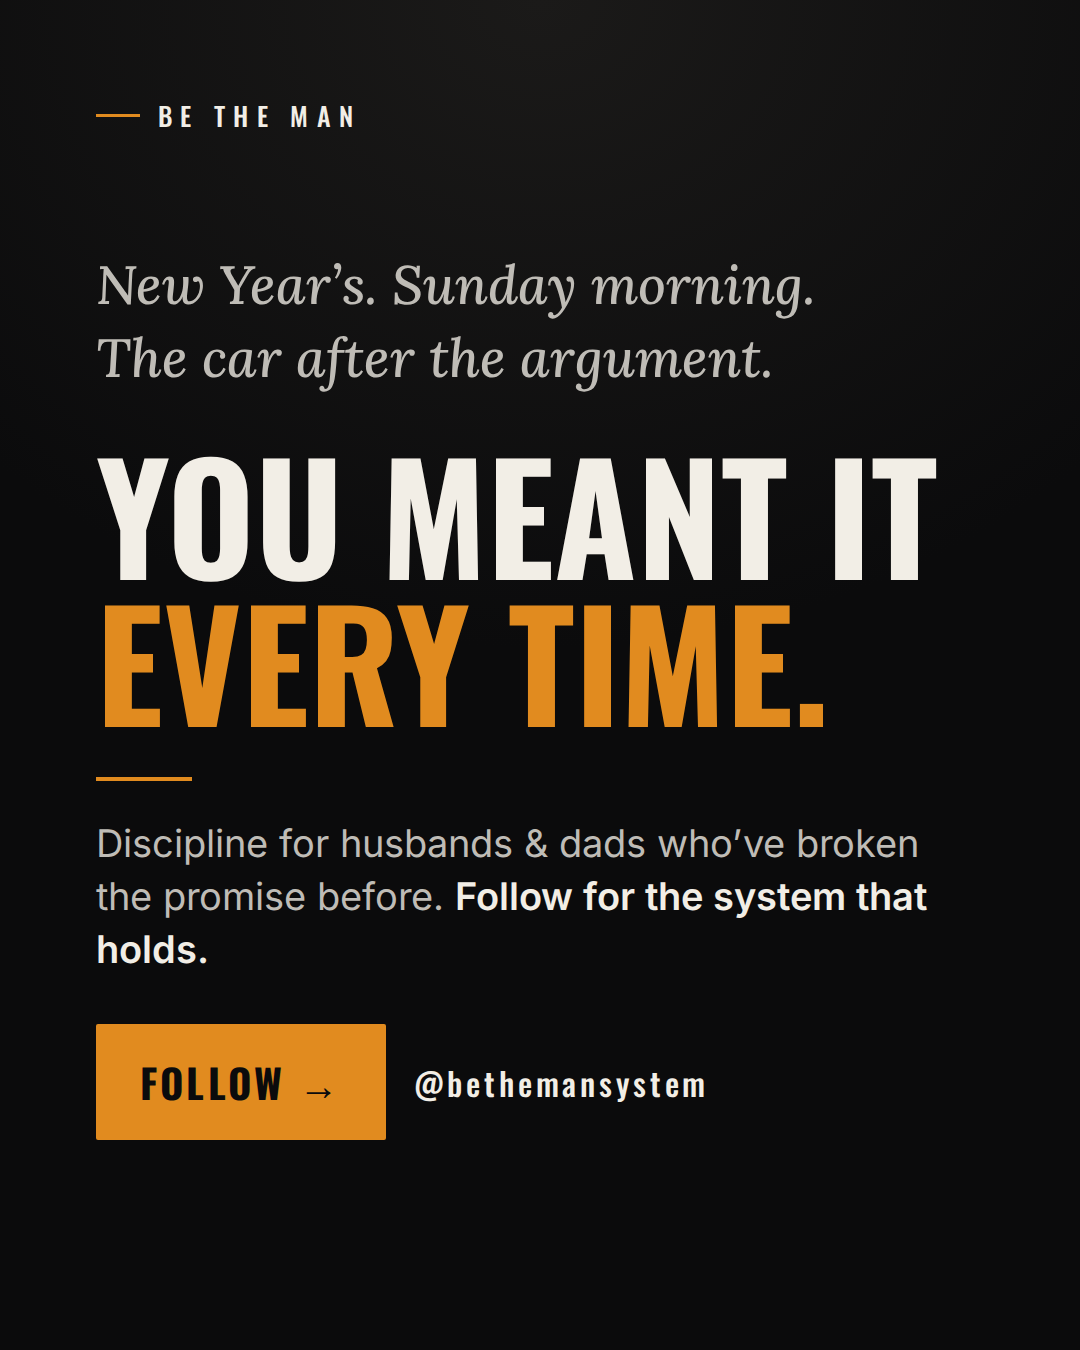
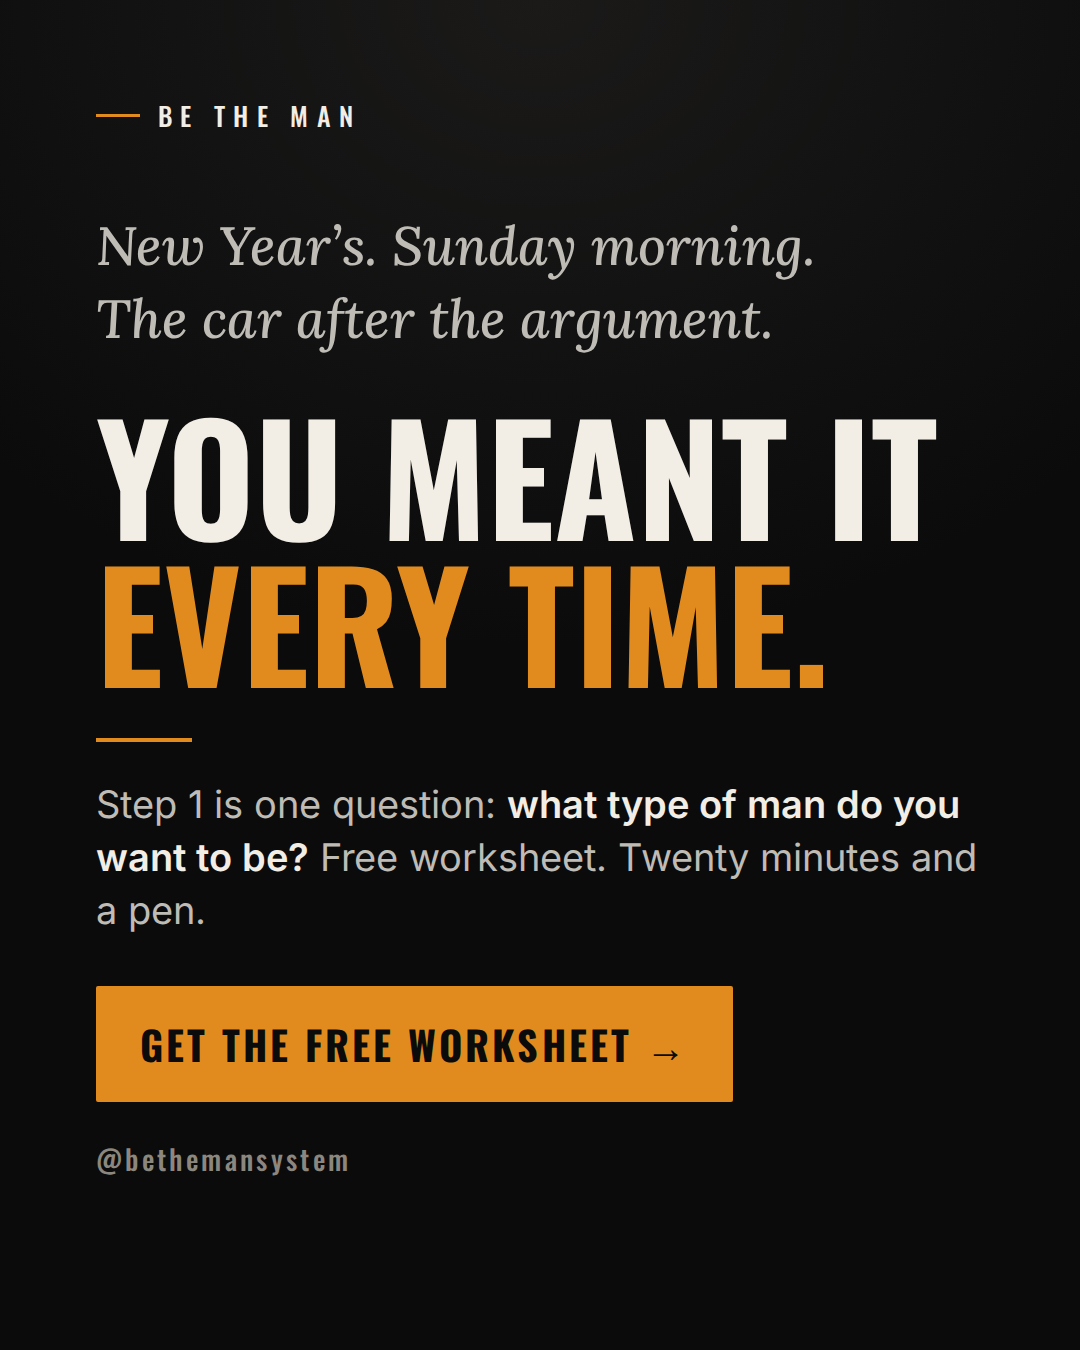
Point ad at the free worksheet instead of Follow
Claude-Session: https://claude.ai/code/session_01XNxN6WWUbLuBKCTBfMbdaS

diff --git a/instagram/AD-GUIDE.md b/instagram/AD-GUIDE.md
@@ -1,6 +1,6 @@
-# $10 ad: Instagram + Facebook exposure for @bethemansystem
+# $10 ad: Instagram + Facebook → free worksheet
 
-**Goal:** get new men to see and follow the page. One ad, one audience, $10 total.
+**Goal:** send new men to the free Step 1 worksheet at `go.bethemansystem.com/framework`. One ad, one audience, $10 total.
 
 ## Creative (in `posts/out/`)
 | File | Placement |
@@ -19,31 +19,32 @@ New Year's. Sunday morning. The car after the argument.
 
 You meant it every time. What you never had was a system that holds when motivation doesn't.
 
-Be The Man is discipline for husbands and dads: one step at a time, starting with a free worksheet.
+Step 1 is one question: what type of man do you want to be? It takes twenty minutes and a pen, and it ends in one sentence you can check every week against.
 
-Follow @bethemansystem.
+Get the free worksheet 👇
 ```
-**Headline:** `Discipline for husbands & dads`
-**Call to action button:** Follow (or Learn more if Follow is not offered)
+**Headline:** `Free worksheet: Step 1`
+**Website URL:** `https://go.bethemansystem.com/framework`
+**Call to action button:** Download (or Learn more)
 
 ## Setup (Meta Ads Manager or the Instagram app)
-Easiest: open the Instagram app → your profile → **Promote** → pick a post (or upload the feed image as a post first, then boost it).
-Better control: **ads.facebook.com → Create → Awareness or Traffic**.
+Use **ads.facebook.com → Create** (the Instagram app's Promote button can also send people to a website, but Ads Manager gives you the controls below).
 
-1. **Objective:** Traffic → **Instagram profile** (cheapest for profile visits and follows). Awareness → Reach is the alternative if you only want eyeballs.
-2. **Budget:** $5/day for 2 days, or $2/day for 5 days. $10 total. Pick the 5-day option if you can wait; it gives Meta more time to optimize.
-3. **Audience:** Men, 28–50, United States (or your country). Interests: Christianity, Fatherhood, Self-improvement, Personal development, Men's health, Jocko Willink, Dave Ramsey. Keep it to roughly 1M-5M people. Turn **Advantage+ audience** off for tighter control, or leave on if the interests return a tiny audience.
-4. **Placements:** Manual. Select Instagram Feed, Instagram Stories, Instagram Reels, Facebook Feed, Facebook Stories. Deselect Audience Network and Messenger.
-5. **Creative:** upload the feed image for Feed placements and the story image for Stories/Reels (use "customize by placement").
-6. **Destination:** your Instagram profile. If you use Traffic with a link instead, use `go.bethemansystem.com/framework` (free Step 1 page), never the $17 Club checkout.
-7. Publish. Ads usually clear review within a few hours.
+1. **Objective:** Traffic (or Leads if you want Meta to optimize for sign-ups). Destination: **Website**.
+2. **Budget:** $2/day for 5 days = $10. Meta needs a few days to find the right people.
+3. **Audience:** Men, 28-50, United States (or your country). Interests: Christianity, Fatherhood, Self-improvement, Personal development, Men's health. Aim for roughly 1M-5M people.
+4. **Placements:** Manual. Instagram Feed, Stories and Reels, Facebook Feed and Stories. Deselect Audience Network and Messenger.
+5. **Creative:** upload the feed image for Feed placements and the story image for Stories and Reels (customize by placement). Paste the copy above and the URL.
+6. **Add a URL tag** `?utm_source=meta&utm_medium=paid&utm_campaign=step1` so you can see ad sign-ups separately.
+7. Publish. Review usually clears within a few hours.
 
 ## What to expect
-$10 usually buys roughly 1,500-4,000 people reached and a handful of profile visits. That is exposure, not growth. Treat it as a test.
+$10 usually brings roughly 10-30 link clicks, and perhaps a few worksheet sign-ups (cold traffic typically converts 10-30% on a free offer). Treat it as a test.
 
-## After 2-5 days
-Check Ads Manager: **Reach, Profile visits, Cost per profile visit, New follows.** If cost per visit is under about $0.50, put in another $10-20 on the same ad. If not, change the audience before the image.
+## After 5 days
+Check: **Link clicks, Cost per click, and sign-ups on the framework page.** If cost per sign-up is under about $3, put in another $10-20 on the same ad. If clicks are cheap but nobody signs up, the page needs work. If clicks are expensive, change the audience before the image.
 
 ## Before you spend
-- Pin your 3 best posts and set the bio link first so the people who land have something to see.
+- Click the ad link yourself on your phone and confirm the worksheet page loads fast and the sign-up works.
+- Set the bio link and pin your best posts, since some people will check your page before signing up.
 - Pay only through Meta's own billing. Anyone DMing you offering to "run ads cheaper" is a scam.
